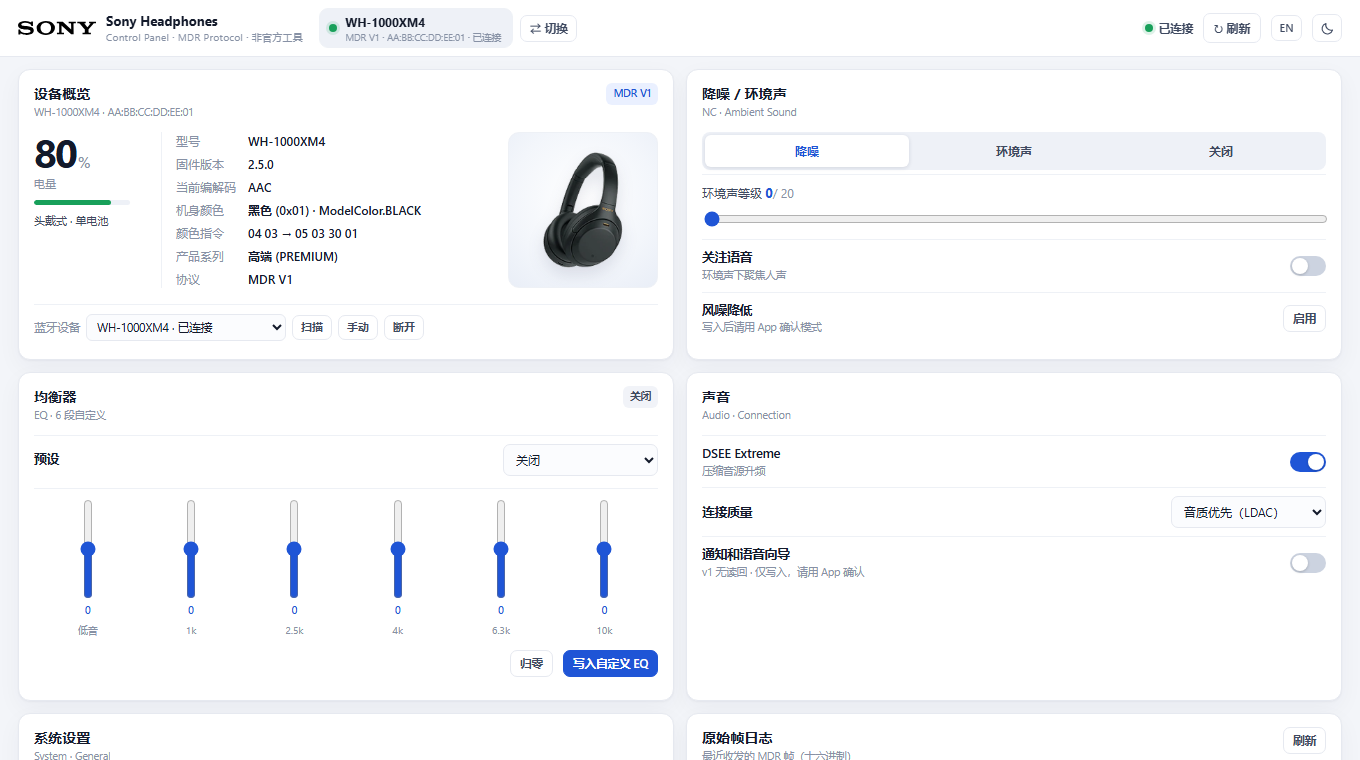
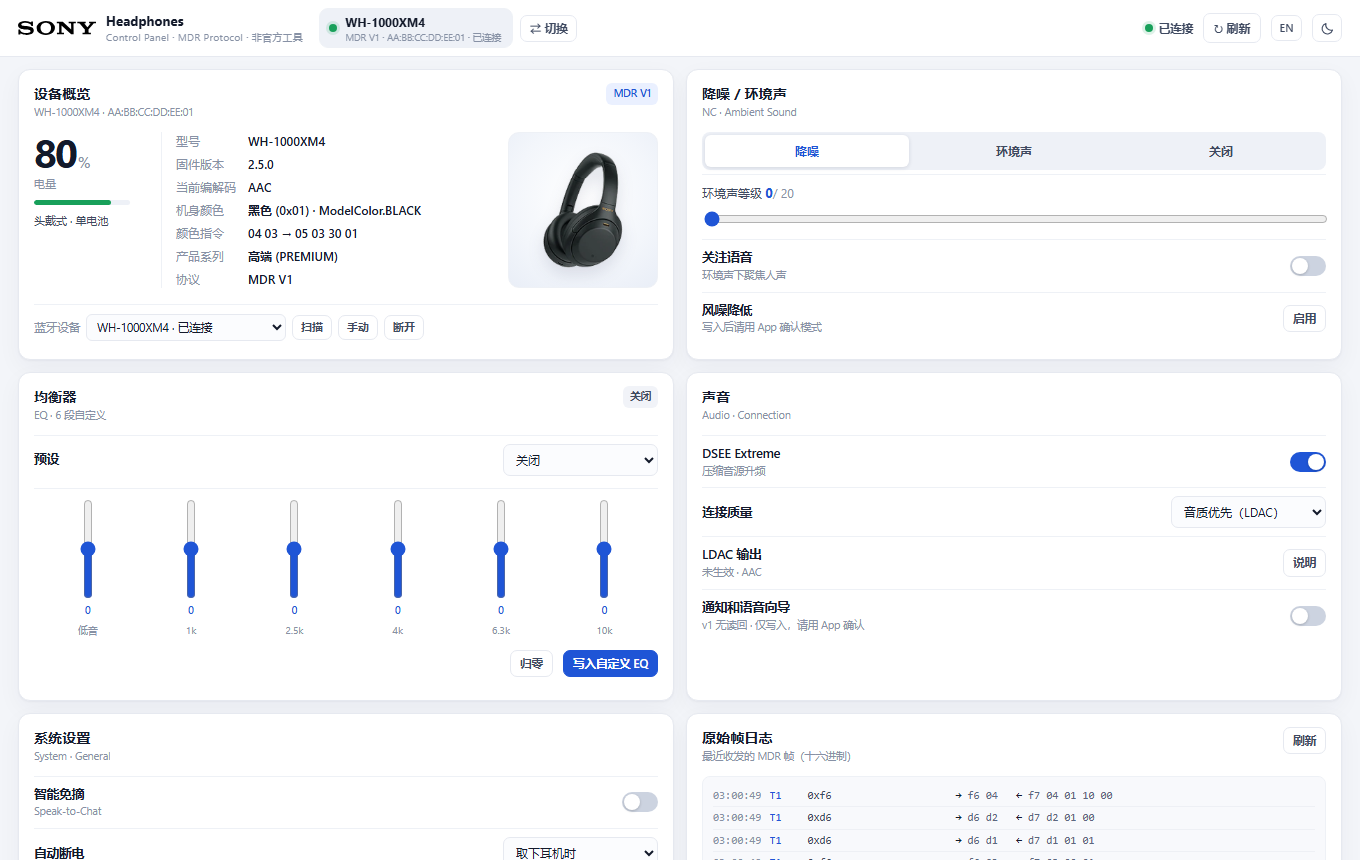
feat: LDAC status row; keep the SONY wordmark from repeating
Windows ships SBC/AAC only and exposes no plug-in point for a third-party
A2DP encoder, so the panel cannot inject LDAC by itself. The sound card now
shows the codec that was actually negotiated and explains the two real
options - the open-source A2DP Windows Bridge (needs a dedicated USB adapter
bound to WinUSB) or the commercial Alternative A2DP Driver - and reports
whether a bridge is already installed. Nothing is downloaded or installed.

The brand block showed SONY twice: the wordmark plus "Sony Headphones".
The title is now just "Headphones".

diff --git a/app/app.js b/app/app.js
@@ -78,6 +78,25 @@ const EN = {
   "型号": "Model",
   "固件版本": "Firmware",
   "当前编解码": "Codec",
+  "LDAC 输出": "LDAC output",
+  "LDAC 已生效": "LDAC active",
+  "未生效": "Not active",
+  "说明": "Info",
+  "收起": "Hide",
+  "已检测到 A2DP Windows Bridge": "A2DP Windows Bridge detected",
+  "未检测到 A2DP Windows Bridge": "No A2DP Windows Bridge detected",
+  "Windows 只带 SBC 和 AAC，没有 LDAC 编码器，也不开放第三方编码器接口。":
+    "Windows ships SBC and AAC only. There is no LDAC encoder and no plug-in point for a third-party one.",
+  "改注册表或装普通驱动都不会让系统输出 LDAC。":
+    "Registry tweaks or an ordinary driver will not make Windows output LDAC.",
+  "「音质优先（LDAC）」只影响耳机侧偏好；源端不给 LDAC 时仍协商为 AAC。":
+    "\u201cSound quality first (LDAC)\u201d only sets the headset's preference; without an LDAC source it still negotiates AAC.",
+  "开源方案 A2DP Windows Bridge 需要一支专用 USB 蓝牙适配器，内置蓝牙不能这样接管。":
+    "The open-source A2DP Windows Bridge needs a dedicated USB Bluetooth adapter; the built-in radio cannot be taken over this way.",
+  "商业方案 Alternative A2DP Driver 可替换 A2DP 驱动，支持内置蓝牙。":
+    "The commercial Alternative A2DP Driver replaces the A2DP driver and works with the built-in radio.",
+  "本应用不下载驱动，也不修改系统蓝牙栈。":
+    "This app never downloads a driver or modifies the Bluetooth stack.",
   "协议": "Protocol",
   "机身颜色": "Colour",
   "颜色指令": "Colour command",
@@ -708,6 +727,41 @@ function render(){
   const lk = KEY_NAME[s.system.keys.left] || 'none';
   const rk = KEY_NAME[s.system.keys.right] || 'none';
   $('#keyLeft').value = lk; $('#keyRight').value = rk;
+
+  renderLdac();
+}
+
+/* ---------------- LDAC ----------------
+   "Sound quality first (LDAC)" is a headset-side preference. The codec itself
+   is negotiated by the Windows Bluetooth stack, which ships SBC/AAC only and
+   exposes no plug-in point for a third-party encoder. So this row reports what
+   was actually negotiated and explains the rest; it never installs anything. */
+let ldacBridge = null;
+
+function renderLdac(){
+  const el = $('#ldacState');
+  if (!el || !state) return;
+  const codec = (state.info && state.info.codec) || '?';
+  const on = codec === 'LDAC';
+  el.textContent = on ? t('LDAC 已生效') : t('未生效') + ' · ' + codec;
+  el.classList.toggle('ok', on);
+}
+
+async function loadLdac(){
+  try {
+    const j = await api('/api/ldac', null, 5000);
+    ldacBridge = j.bridge || null;
+  } catch(e){ ldacBridge = null; }
+  const el = $('#ldacBridge');
+  if (!el) return;
+  if (ldacBridge && ldacBridge.installed) {
+    el.textContent = t('已检测到 A2DP Windows Bridge') +
+      (ldacBridge.version ? ' ' + ldacBridge.version : '');
+    el.classList.add('on');
+  } else {
+    el.textContent = t('未检测到 A2DP Windows Bridge');
+    el.classList.remove('on');
+  }
 }
 
 /* ---------------- actions ---------------- */
@@ -810,6 +864,14 @@ function bind(){
   $('#btnTheme').onclick = () => chooseTheme(
     document.documentElement.dataset.theme === 'dark' ? 'light' : 'dark');
 
+  $('#btnLdacInfo').onclick = () => {
+    const note = $('#ldacNote'), btn = $('#btnLdacInfo');
+    const willOpen = note.classList.contains('hidden');
+    note.classList.toggle('hidden', !willOpen);
+    btn.setAttribute('aria-expanded', willOpen ? 'true' : 'false');
+    btn.textContent = willOpen ? t('收起') : t('说明');
+  };
+
   $('#btPick').onchange = async () => {
     const mac = $('#btPick').value;
     if (!mac) return;
@@ -904,6 +966,7 @@ function bind(){
   bind();
   watchLanguage();
   preloadPhotos();
+  loadLdac();                          // capability probe, not on the RFCOMM path
   progress(true);
   try {
     await loadContext();

diff --git a/app/index.html b/app/index.html
@@ -3,7 +3,7 @@
 <head>
 <meta charset="utf-8">
 <meta name="viewport" content="width=device-width, initial-scale=1">
-<title>Sony Headphones Control Panel</title>
+<title>Headphones Control Panel</title>
 <link rel="icon" type="image/x-icon" href="/favicon.ico">
 <link rel="stylesheet" href="/style.css">
 </head>
@@ -13,7 +13,7 @@
   <div class="brand">
     <img class="brand-logo" src="/assets/sony-logo.svg" alt="SONY" title="SONY">
     <div>
-      <div class="brand-title">Sony Headphones</div>
+      <div class="brand-title">Headphones</div>
       <div class="brand-sub">Control Panel · MDR Protocol · 非官方工具</div>
     </div>
   </div>
@@ -124,6 +124,19 @@
         <option value="hifi">音质优先（LDAC）</option>
         <option value="stable">稳定连接优先</option>
       </select>
+    </div>
+    <div class="row split" id="ldacRow">
+      <div><label class="lbl">LDAC 输出</label><span class="hint" id="ldacState">检测中…</span></div>
+      <button class="btn ghost small" id="btnLdacInfo" aria-expanded="false">说明</button>
+    </div>
+    <div class="ldac-note hidden" id="ldacNote">
+      <p class="ldac-bridge" id="ldacBridge">未检测到 A2DP Windows Bridge</p>
+      <p>Windows 只带 SBC 和 AAC，没有 LDAC 编码器，也不开放第三方编码器接口。</p>
+      <p>改注册表或装普通驱动都不会让系统输出 LDAC。</p>
+      <p>「音质优先（LDAC）」只影响耳机侧偏好；源端不给 LDAC 时仍协商为 AAC。</p>
+      <p>开源方案 A2DP Windows Bridge 需要一支专用 USB 蓝牙适配器，内置蓝牙不能这样接管。</p>
+      <p>商业方案 Alternative A2DP Driver 可替换 A2DP 驱动，支持内置蓝牙。</p>
+      <p>本应用不下载驱动，也不修改系统蓝牙栈。</p>
     </div>
     <div class="row split" id="voiceRow">
       <div><label class="lbl">通知和语音向导</label><span class="hint" id="voiceHint">Table#2</span></div>

diff --git a/app/style.css b/app/style.css
@@ -155,6 +155,17 @@ html:not([data-theme="dark"]) .ico-sun{display:none}
 }
 .bt-row .btn.small{padding:3px 8px;font-size:11px}
 .bt-row select:focus{border-color:var(--primary)}
+/* LDAC row: the headset only advertises a preference, Windows supplies the
+   codec, so the row states what is actually negotiated and explains the rest. */
+.ldac-note{
+  border-top:1px solid var(--line2);margin-top:7px;padding-top:8px;
+  font-size:11px;line-height:1.65;color:var(--ink2);
+}
+.ldac-note p{margin:0 0 3px}
+.ldac-note p:last-child{margin-bottom:0}
+.ldac-note .ldac-bridge{color:var(--muted);margin-bottom:5px}
+.ldac-note .ldac-bridge.on{color:var(--ok)}
+#ldacState.ok{color:var(--ok)}
 .mac-row{grid-column:1/-1;display:flex;align-items:center;gap:7px;border-top:1px solid var(--line2);padding-top:10px;margin-top:2px}
 .mac-row label{font-size:11.5px;color:var(--muted);white-space:nowrap}
 .mac-row input{

diff --git a/app/server.py b/app/server.py
@@ -508,6 +508,66 @@ def bt_candidates():
             "devices": out}
 
 
+def a2dp_bridge_status():
+    """Detect the open-source A2DP Windows Bridge, nothing more.
+
+    Windows ships SBC/AAC only and exposes no plug-in point for a third-party
+    A2DP encoder, so this panel cannot give the headset LDAC by itself. The
+    honest thing it can do is report whether a bridge that *does* provide LDAC
+    is installed. Read-only: install records and the documented folders.
+    """
+    info = {"installed": False, "path": "", "version": ""}
+    if os.name != "nt":
+        return info
+    try:
+        import winreg
+    except Exception:
+        return info
+
+    keys = [
+        (winreg.HKEY_LOCAL_MACHINE,
+         r"SOFTWARE\Microsoft\Windows\CurrentVersion\Uninstall"),
+        (winreg.HKEY_CURRENT_USER,
+         r"SOFTWARE\Microsoft\Windows\CurrentVersion\Uninstall"),
+        (winreg.HKEY_LOCAL_MACHINE,
+         r"SOFTWARE\WOW6432Node\Microsoft\Windows\CurrentVersion\Uninstall"),
+    ]
+    for root, path in keys:
+        try:
+            with winreg.OpenKey(root, path) as k:
+                for i in range(winreg.QueryInfoKey(k)[0]):
+                    try:
+                        with winreg.OpenKey(k, winreg.EnumKey(k, i)) as sub:
+                            def val(name):
+                                try:
+                                    return str(winreg.QueryValueEx(sub, name)[0])
+                                except OSError:
+                                    return ""
+                            label = val("DisplayName")
+                            if not label or "a2dp" not in label.lower():
+                                continue
+                            info["installed"] = True
+                            info["version"] = val("DisplayVersion") or info["version"]
+                            info["path"] = (val("InstallLocation")
+                                            or val("DisplayIcon") or info["path"])
+                    except OSError:
+                        continue
+        except OSError:
+            continue
+
+    if not info["installed"]:
+        cands = [
+            os.path.join(os.environ.get("LOCALAPPDATA", ""), "Programs", "A2DPWB"),
+            os.path.join(os.environ.get("PROGRAMFILES", ""), "A2DPWB"),
+            os.path.join(os.environ.get("PROGRAMFILES(X86)", ""), "A2DPWB"),
+        ]
+        for d in cands:
+            if d and os.path.isfile(os.path.join(d, "a2dpwb.exe")):
+                info.update(installed=True, path=d)
+                break
+    return info
+
+
 def _online_keys(rows):
     """Known Bluetooth devices that map onto our two supported models.
 
@@ -1186,6 +1246,12 @@ class Handler(BaseHTTPRequestHandler):
                     pass
                 res = bt_candidates()
             self._json(res)
+            return
+        if p == "/api/ldac":
+            # Read-only capability check for the LDAC row in the sound card.
+            # The panel never installs or injects a codec; it only reports what
+            # the machine already has, plus the codec the headset reports.
+            self._json({"ok": True, "bridge": a2dp_bridge_status()})
             return
         if p == "/api/devices":
             # Legacy/debug endpoint: the panel itself only ever uses /api/context.

diff --git a/app/selftest.py b/app/selftest.py
@@ -264,6 +264,30 @@ def _picker_wired():
             and "async function bindDevice(" in js)
 
 
+def _ldac_probe_shape():
+    """The LDAC row is fed by a read-only probe, so it must never raise.
+
+    Windows has no third-party A2DP encoder hook, so the panel only reports
+    whether a bridge is installed; on a clean machine that is simply False.
+    """
+    res = srv.a2dp_bridge_status()
+    return (isinstance(res, dict)
+            and {"installed", "path", "version"} <= set(res)
+            and isinstance(res["installed"], bool)
+            and isinstance(res["path"], str))
+
+
+def _ldac_row_wired():
+    """The sound card must carry the LDAC row and its explanation, and the
+    text must promise no driver installation."""
+    js = open(os.path.join(srv.ROOT, "app.js"), encoding="utf-8").read()
+    html = open(os.path.join(srv.ROOT, "index.html"), encoding="utf-8").read()
+    return ('id="ldacState"' in html and 'id="ldacNote"' in html
+            and 'id="btnLdacInfo"' in html
+            and "'/api/ldac'" in js and "function renderLdac(" in js
+            and "本应用不下载驱动" in html)
+
+
 def _table_suffixes_only():
     table = _photo_table()
     suffixes = set(v[2] for v in lb.MODEL_COLORS.values() if v[2])
@@ -438,6 +462,8 @@ def main():
         ("battery watch sends one command", _battery_tick_light()),
         ("bt candidates answer without a radio", _bt_candidates_shape()),
         ("panel offers the device picker", _picker_wired()),
+        ("ldac probe answers read-only", _ldac_probe_shape()),
+        ("sound card carries the ldac row", _ldac_row_wired()),
     ]
     for name, ok in checks:
         print(("  PASS  " if ok else "  FAIL  ") + name)
